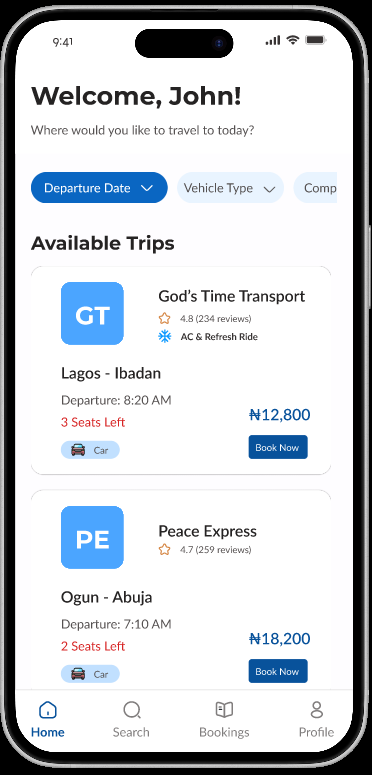
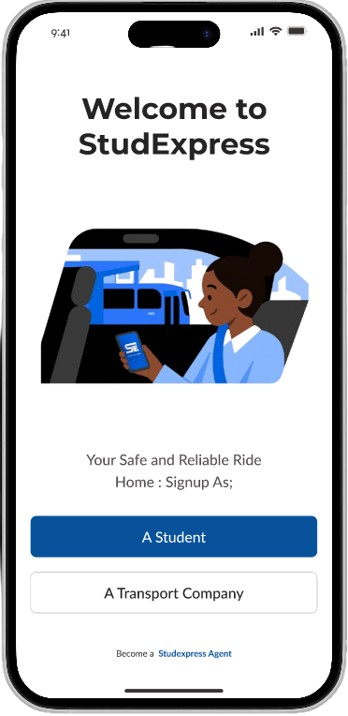
Update the site contents

diff --git a/content/project.ts b/content/project.ts
@@ -23,15 +23,20 @@ export const projects: Project[] = [
     name: "StudExpress",
     type: "mobile",
     year: "2024 to now",
-    category: "Mobile Developer",
-    decision: "I kept the booking path short, made trip status visible at every step and designed failure states for unreliable mobile connections—not just the ideal path.",
+    category: "Mobile App Developer",
     summary:
-      "A mobile booking app connecting students with inter-state travel across Nigerian universities.",
-    problem: "Booking campus travel is often fragmented across calls, chats and manual passenger lists. Students need a clear way to find a route, choose a trip and know their booking is confirmed.",
-    built: "I lead operations and build the Expo application that handles route discovery, trip selection and booking. The mobile experience connects to the same Node.js services used by the operations team.",
-    result: "One product now supports travel booking across multiple Nigerian universities, with a shared flow for students and the team managing each trip.",
-    stack: ["React Native", "Expo", "Node.js"],
-    differently: "I would invest earlier in event instrumentation around incomplete bookings. Better funnel data would make product decisions faster.",
+      "A mobile booking app connecting students with verified transport providers across Nigerian universities.",
+    problem:
+      "Booking campus travel is often fragmented across calls, chats and manual passenger lists. Students need a clear way to find a trip, pay and know their booking is confirmed.",
+    built:
+      "I build the React Native app end to end: Google Sign-In with backend token verification, booking and wallet flows, Flutterwave payments, downloadable PDF tickets, and push notifications through Expo. I also set up the release pipeline with EAS and shipped the Android build to Google Play.",
+    decision:
+      "Trip reminders run on an hourly cron job with a MongoDB-backed lock, so with two server replicas running, a student never gets the same reminder twice. I also used expo-server-sdk for push so notifications could be batched as booking volume grows.",
+    result:
+      "A live product on Google Play that students and transport providers use for booking across Nigerian universities.",
+    stack: ["React Native", "Expo", "Node.js", "MongoDB"],
+    differently:
+      "I would organise the app by feature from day one. I refactored the screens into a domain-based structure later, and starting that way would have saved a lot of untangling as the app grew.",
     firstImage: "/projects/studexpress/studexpress1.png",
     secondImage: "/projects/studexpress/studexpress2.png",
   },
@@ -42,7 +47,8 @@ export const projects: Project[] = [
     year: "2026",
     type: "web",
     category: "Full-stack developer",
-    decision: "We kept detection in the existing CI workflow, served the model behind a small FastAPI boundary and required a human Apply Fix action instead of silently changing test code.",
+    decision:
+      "We kept detection in the existing CI workflow, served the model behind a small FastAPI boundary and required a human Apply Fix action instead of silently changing test code.",
     summary:
       "An AI tool that detects, classifies and automatically repairs flaky tests in JavaScript CI pipelines.",
     problem:
@@ -50,10 +56,17 @@ export const projects: Project[] = [
     built:
       "A GitHub Actions workflow that reruns tests to detect flakiness, a fine-tuned CodeBERT model that classifies each one, a rule-based engine that opens fixes as pull requests, and a React dashboard.",
     result: "CI pass rate improved from 68% to 89%.",
-    stack: ["Node.js", "TypeScript", "MongoDB", "React", "FastAPI", "GitHub Actions"],
+    stack: [
+      "Node.js",
+      "TypeScript",
+      "MongoDB",
+      "React",
+      "FastAPI",
+      "GitHub Actions",
+    ],
     differently:
       "Automated repair for concurrency issues wasn't built because of limited training data, so I'd collect a bigger dataset first.",
-      firstImage: "/projects/flakeyradar/flakeyradar1.png",
+    firstImage: "/projects/flakeyradar/flakeyradar1.png",
     secondImage: "/projects/flakeyradar/flakeyradar2.png",
   },
 ];

diff --git a/components/sections/About.tsx b/components/sections/About.tsx
@@ -6,21 +6,25 @@ export function About() {
   return (
     <section id="about" className="px-5 md:px-15">
       <div className="flex flex-col gap-10 lg:flex-row items-start lg:gap-50">
-        <Reveal><div className="text-muted text-small mt-2">02 / ABOUT</div></Reveal>
-        <div className="max-w-230"> 
-          <TextReveal text="I like owning the whole problem." className="text-display text-wrap" />
-          <Reveal><p className="my-10 text-[20px]">
-            I’m a software engineer who works across mobile, web, backend
-            systems and the infrastructure that keeps them running. I care about
-            software that is reliable, fast, simple and enjoyable to use—not
-            just on launch day, but after months of real use. I’m comfortable
-            moving from a React Native screen to an API contract, a database
-            query or a deployment failure. I ship in small, understandable steps
-            and keep the maintenance cost in view while I build. Outside the
-            editor, I’m usually reorganising a playlist or noticing the one
-            interaction in an app that could have been one tap shorter. NOW
-            Building the next version of StudExpress and getting deeper into
-          </p>
+        <Reveal>
+          <div className="text-muted text-small mt-2">02 / ABOUT</div>
+        </Reveal>
+        <div className="max-w-230">
+          <TextReveal
+            text="I like owning the whole problem."
+            className="text-display text-wrap"
+          />
+          <Reveal>
+            <p className="my-10 text-[20px]">
+              I’m a software engineer, I build for the web and for
+              mobile: Next.js and TypeScript interfaces, React Native apps, and
+              the Node.js and Express services, databases and deployments that
+              sit behind them. I’m happiest when I can follow a problem from the
+              page a person sees to the server that answers it, and fix it
+              wherever it actually lives. I care about software that stays
+              reliable, fast and simple months after launch, not just on launch
+              day.
+            </p>
           </Reveal>
         </div>
       </div>

diff --git a/components/modal/ResumeModal.tsx b/components/modal/ResumeModal.tsx
@@ -6,7 +6,7 @@ import { ButtonLink } from "../ui/Button";
 import dynamic from "next/dynamic";
 import { useEffect } from "react";
 import { AnimatePresence, motion } from "motion/react";
-
+import { ease } from "@/lib/motion";
 
 const ResumeViewer = dynamic(() => import("../ui/ResumeViewer"), {
   ssr: false,
@@ -32,11 +32,15 @@ export function ResumeModal({
   return (
     <AnimatePresence>
       <motion.div
-        className="fixed inset-0 z-50 bg-bg/60"
-        initial={{ clipPath: "inset(0 0 100% 0)" }}
-        animate={{ clipPath: "inset(0 0 0% 0)" }}
-        exit={{ clipPath: "inset(0 0 100% 0)" }}
-        transition={{ duration: 0.4, ease: "easeInOut" }}
+        className="fixed inset-0 z-50 bg-bg/60 origin-right"
+        // initial={{ clipPath: "inset(0 0 100% 0)" }}
+        // animate={{ clipPath: "inset(0 0 0% 0)" }}
+        // exit={{ clipPath: "inset(0 0 100% 0)" }}
+        // transition={{ duration: 0.4, ease: "easeInOut" }}
+        initial={{ scaleX: 0 }}
+        whileInView={{ scaleX: 1 }}
+        viewport={{ once: true }}
+        transition={{ duration: 0.6, ease }}
         onClick={onClose}
       >
         <div

diff --git a/components/sections/Selectedwork.tsx b/components/sections/Selectedwork.tsx
@@ -22,8 +22,7 @@ export function SelectedWork() {
           <Reveal>
             {" "}
             <p className="text-muted max-w-2xl text-xl">
-              Three systems across product, machine learning and infrastructure
-              each built for use beyond a demo.
+              Two systems built for real use, not just a demo.
             </p>
           </Reveal>
         </div>
